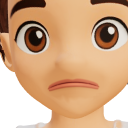
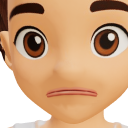
3D-forsøg: læber med 3D-lys og en rund spidsmund til Kys
Læberne lyses som runde ruller med flere farvenuancer fra dyb rød til lys rosa og et glimt på underlæben. Kys er en rund spidsmund med rynker.

diff --git a/3d-forsoeg/index.html b/3d-forsoeg/index.html
@@ -535,12 +535,18 @@ function drawMouth(o) {
   // (dIn: how far inside from the mouth's opening or seam - a crisp edge; dOut: from the lip's outer edge - a soft one,
   // so the lip rounds into the skin. The upper lip faces down and lies in shade, lighter at its rim; the lower one faces
   // up and catches the light, darker where it turns under)
-  // (lower: 0 the upper lip's shading, 1 the lower's - Åh's round lip passes from one to the other, without a line)
-  const lip = (i, k, dIn, dOut, t, lower, u) => { const a = cov(dIn) * cl(dOut / .016 + .5); if (a <= 0) return; t = cl(t);
-    // (its light broad and soft - narrow, it ran along the lip as a line)
-    const lo = .88 + .16 * Math.sin(Math.PI * Math.min(1, t * 1.2)) + .14 * Math.exp(-(((t - .4) / .3) ** 2)) * Math.exp(-((u / .5) ** 2)) - .12 * cl((t - .6) / .4) ** 2,
-      hi = .74 + .2 * t + .1 * Math.sin(Math.PI * t), l = +lower;
-    put(i, lipC, k * (lo * l + hi * (1 - l)), a); };
+  // (each lip lit as a round roll: across it, t from the mouth's opening (0) to its outer edge (1), it faces down, forward,
+  // then up - the upper lip the other way about - and round the mouth it turns away at the corners. Lit from above and
+  // in front, its colour runs from a deep red in shade through the lip colour to a light pink, and the lower lip has a
+  // soft gloss. lower: 0 the upper lip, 1 the lower - Åh's round lip passes from one to the other, without a line)
+  const lipShade = mix(lipC, { r: .4, g: .09, b: .12 }, .68), lipLight = mix(lipC, { r: 1, g: .84, b: .84 }, .6);
+  const lipColour = (t, l, u) => { const nz = Math.sin(Math.PI * t), ny = -Math.cos(Math.PI * t) * (1 - l) + Math.cos(Math.PI * t) * l;
+    const d = cl((.28 + .46 * nz + .36 * ny - .08 * u) * (1 - .3 * cl((Math.abs(u) - .65) / .35)));
+    let c = d < .5 ? mix(lipShade, lipC, d / .5) : mix(lipC, lipLight, (d - .5) / .5 * .7);
+    const gloss = l * .55 * Math.exp(-(((t - .32) / .1) ** 2)) * Math.exp(-(((u + .18) / .22) ** 2));
+    return gloss > .01 ? mix(c, { r: 1, g: .93, b: .93 }, gloss) : c; };
+  const lip = (i, k, dIn, dOut, t, lower, u) => { const a = cov(dIn) * cl(dOut / .016 + .5); if (a <= 0) return;
+    put(i, lipColour(cl(t), +lower, u), k, a); };
   // (a soft shade on the skin just under the lower lip, where it turns in)
   const under = (i, k, d, u) => { if (d < 0 || d > .04) return; put(i, skin, k * .84, .55 * (1 - d / .04) * cl(1 - u * u)); };
   const { my } = M;
@@ -584,14 +590,21 @@ function drawMouth(o) {
       put(i, insideC, .6 + .45 * cl((cy + .09 - y) / .18), cov((1 - ei) * .08 * sc));
       const te = Math.hypot(x / .08, (y - cy + .095) / .05); put(i, tongueC, .75 + .3 * (1 - te), cov((1 - ei) * .08 * sc) * cov((1 - te) * .05 * sc));
       put(i, seamC, 1, .4 * cov(.004 - Math.abs((1 - ei) * .08 * sc))); }
-    // (Kys: pursed lips pushed forward - narrow, nearly round, the bow in the upper one, a short seam in the middle, lit
-    // most where they stick out and with little creases running out from the middle, as lips gathered for a kiss)
-    if (opts.kiss) { const sc = opts.kiss, sy = my - .025, ux = X / (.11 * sc), s = Math.sqrt(Math.max(0, 1 - ux * ux)), up = sy + .07 * sc * Math.pow(s, .4) * (1 - .25 * Math.exp(-((X / (.03 * sc)) ** 2))), lo = sy - .082 * sc * Math.pow(s, .45);
-      if (Math.abs(ux) < 1.05) { under(i, k, lo - Y, ux); lip(i, k, Y - sy, up - Y, (Y - sy) / (up - sy || 1), false, ux); lip(i, k, sy - Y, Y - lo, (sy - Y) / (sy - lo || 1), true, ux * 1.6);
-        const inLip = cov(Math.min(Y - lo, up - Y)), r = Math.hypot(X, (Y - sy) * 1.2) / sc, ang = Math.atan2(Y - sy, X);
-        put(i, { r: 1, g: .92, b: .92 }, 1, .18 * inLip * Math.exp(-((r / .04) ** 2)));
-        put(i, kissC, k, .35 * inLip); put(i, lipC, k * .68, .75 * inLip * cl((r - .025) / .015) * cl(1 - Math.abs(Math.sin(ang * 5)) / .18) * cl(Math.min(up - Y, Y - lo) / .015));
-        put(i, seamC, 1, .85 * cov(.005 * s - Math.abs(Y - sy)) * cl((.45 - Math.abs(ux)) / .15)); } } } }
+    // (Kys: the lips gathered and pushed forward into a round pucker - a dome, its top edge with a little bow, lit from
+    // above and in front: lightest where it sticks out most, deep red round its rim; creases run out from a small dark
+    // pucker in the middle, and a short seam either side of it)
+    if (opts.kiss) { const sc = opts.kiss, cy = my - .03, rx = .085 * sc, ry = .075 * sc, ux = X / rx;
+      const top = cy + ry * (1 - .22 * Math.exp(-((ux / .28) ** 2))), uy = Y > cy ? (Y - cy) / (top - cy) : (Y - cy) / (ry * 1.08), r = Math.hypot(ux, uy);
+      if (r < 1.25) { under(i, k, (r - 1) * ry, ux * .8);
+        const a = cl((1 - r) * ry / .012 + .5);
+        if (a > 0) { const nz = Math.sqrt(Math.max(0, 1 - r * r)), d = cl(.3 + .55 * nz + .25 * uy * (1 - nz) - .06 * ux);
+          let c = d < .5 ? mix(lipShade, kissC, d / .5) : mix(kissC, lipLight, (d - .5) / .5 * .75);
+          // (the creases: darker lines running out from the middle, fading out before the rim)
+          const ang = Math.atan2(uy, ux), cr = cl(1 - Math.abs(Math.sin(ang * 4.5)) / .22) * cl((r - .18) / .12) * cl((.85 - r) / .15);
+          c = mix(c, lipShade, .5 * cr);
+          const gloss = .5 * Math.exp(-(((ux + .25) / .22) ** 2 + ((uy - .32) / .2) ** 2)); c = mix(c, { r: 1, g: .93, b: .93 }, gloss);
+          put(i, c, k, a);
+          put(i, seamC, 1, .9 * cl(1 - Math.hypot(ux / 1.6, uy / .7) / .14) + .6 * cov(.0035 - Math.abs(Y - cy)) * cl((.5 - Math.abs(ux)) / .2) * cl((Math.abs(ux) - .1) / .05)); } } } } }
 // (a shut eye's hollow lit smooth - see setupBrows - and an open one as it was)
 function shutNormals(S, opts) { if (!S.verts || !hairBase) return; const N = hairBase.body.geometry.attributes.normal, A = N.array, V = S.verts, v = new THREE.Vector3();
   for (let j = 0, m = 0; j < V.length; j += 3, m += 3) { const i = V[j], E = S.eyes[V[j + 1]], shut = opts.shut && (!opts.one || E.side > 0);
